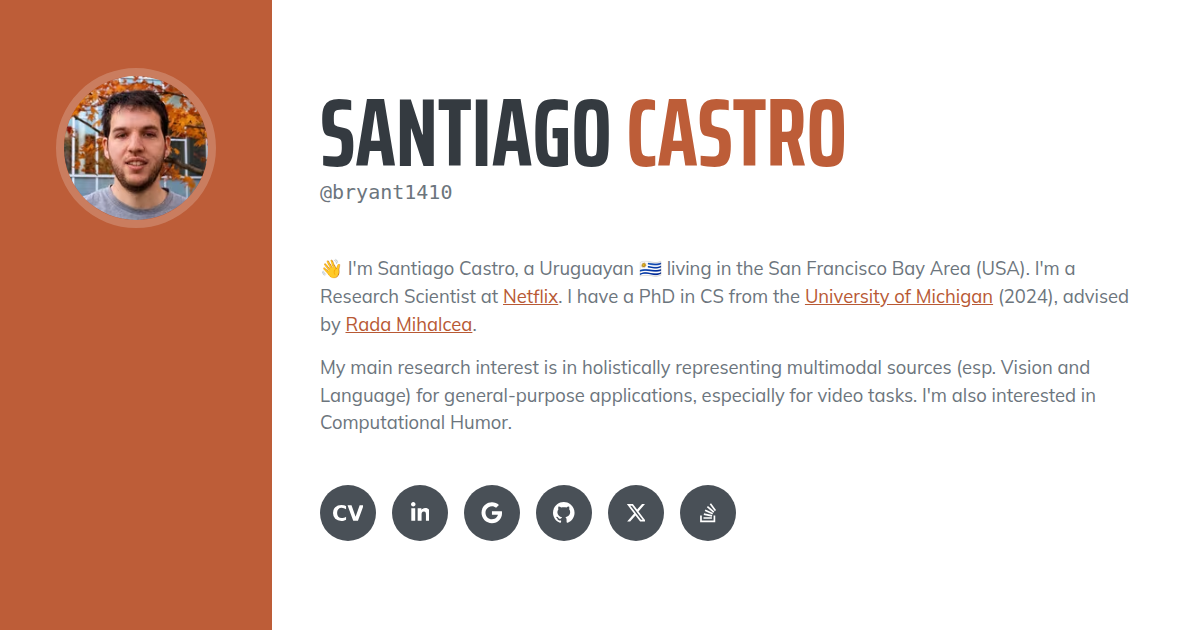
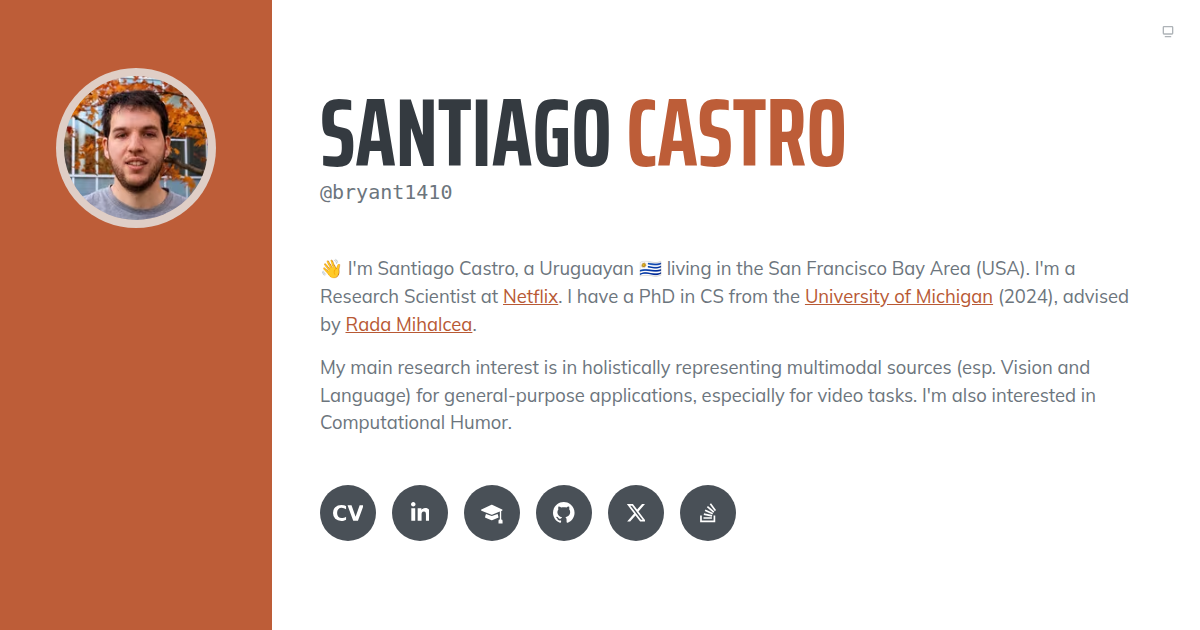
Site polish: update opengraph image, add web manifest, adaptive theme-color, and expand resume redirects (#36)
* feat: update opengraph image, add web manifest, adaptive theme-color, and expand resume redirects

* refactor: remove email from JSON-LD to prevent spam scraping

diff --git a/404.html b/404.html
@@ -6,11 +6,13 @@
   <meta name="viewport" content="width=device-width, initial-scale=1">
   <meta name="color-scheme" content="light dark">
   <meta name="robots" content="noindex">
-  <meta name="theme-color" content="#bd5d38">
+  <meta name="referrer" content="strict-origin-when-cross-origin">
+  <meta name="theme-color" media="(prefers-color-scheme: light)" content="#bd5d38">
+  <meta name="theme-color" media="(prefers-color-scheme: dark)" content="#181a1b">
   <meta http-equiv="Content-Security-Policy" content="default-src 'self'; script-src 'self' 'unsafe-inline'; style-src 'self' 'unsafe-inline'; img-src 'self' data:; font-src 'self'; object-src 'none'; base-uri 'self';">
 
   <script>
-    if (/^\/(resume|cv)\.pdf$/i.test(location.pathname)) {
+    if (/^\/(resume|cv)(\.pdf)?$/i.test(location.pathname)) {
       location.replace("/resume/main.pdf");
     }
 
@@ -29,6 +31,7 @@
   <link rel="icon" href="/favicon.ico" sizes="any">
   <link rel="icon" href="/favicon.svg" type="image/svg+xml">
   <link rel="apple-touch-icon" href="/img/apple-touch-icon.png">
+  <link rel="manifest" href="/site.webmanifest">
 
   <link rel="preload" href="/fonts/saira-extra-condensed-latin-700.woff2" as="font" type="font/woff2" crossorigin>
   <link rel="preload" href="/fonts/mulish-latin-400.woff2" as="font" type="font/woff2" crossorigin>
@@ -302,6 +305,26 @@
     };
     syncLabel();
 
+    const syncThemeColor = () => {
+      const current = root.dataset.theme;
+      const metaDark = document.querySelector('meta[name="theme-color"][media*="dark"]');
+      const metaLight = document.querySelector('meta[name="theme-color"][media*="light"]');
+      if (!metaDark || !metaLight) {
+        return;
+      }
+      if (current === "light") {
+        metaDark.setAttribute("content", "#bd5d38");
+        metaLight.setAttribute("content", "#bd5d38");
+      } else if (current === "dark") {
+        metaDark.setAttribute("content", "#181a1b");
+        metaLight.setAttribute("content", "#181a1b");
+      } else {
+        metaDark.setAttribute("content", "#181a1b");
+        metaLight.setAttribute("content", "#bd5d38");
+      }
+    };
+    syncThemeColor();
+
     let pressTimer = null;
     let didLongPress = false;
     let startX = 0;
@@ -416,6 +439,7 @@
         }
       }
       syncLabel();
+      syncThemeColor();
     });
   })();
 </script>

diff --git a/index.html b/index.html
@@ -57,7 +57,9 @@
   <meta name="description"
         content="Santiago Castro is a Research Scientist at Netflix working on multimodal (vision and language) learning, especially for video. PhD in CS, UMich.">
   <meta name="author" content="Santiago Castro (bryant1410)">
-  <meta name="theme-color" content="#bd5d38">
+  <meta name="referrer" content="strict-origin-when-cross-origin">
+  <meta name="theme-color" media="(prefers-color-scheme: light)" content="#bd5d38">
+  <meta name="theme-color" media="(prefers-color-scheme: dark)" content="#181a1b">
 
   <meta property="og:title" content="Santiago Castro">
   <meta property="og:type" content="profile">
@@ -88,6 +90,7 @@
   <link rel="icon" href="favicon.ico" sizes="any">
   <link rel="icon" type="image/svg+xml" href="favicon.svg">
   <link rel="apple-touch-icon" href="img/apple-touch-icon.png">
+  <link rel="manifest" href="site.webmanifest">
 
   <script type="application/ld+json">
     {
@@ -782,6 +785,26 @@
     };
     syncLabel();
 
+    const syncThemeColor = () => {
+      const current = root.dataset.theme;
+      const metaDark = document.querySelector('meta[name="theme-color"][media*="dark"]');
+      const metaLight = document.querySelector('meta[name="theme-color"][media*="light"]');
+      if (!metaDark || !metaLight) {
+        return;
+      }
+      if (current === "light") {
+        metaDark.setAttribute("content", "#bd5d38");
+        metaLight.setAttribute("content", "#bd5d38");
+      } else if (current === "dark") {
+        metaDark.setAttribute("content", "#181a1b");
+        metaLight.setAttribute("content", "#181a1b");
+      } else {
+        metaDark.setAttribute("content", "#181a1b");
+        metaLight.setAttribute("content", "#bd5d38");
+      }
+    };
+    syncThemeColor();
+
     let pressTimer = null;
     let activeTooltipEl = null;
     let didLongPress = false;
@@ -912,6 +935,7 @@
         }
       }
       syncLabel();
+      syncThemeColor();
     });
   })();
 </script>
